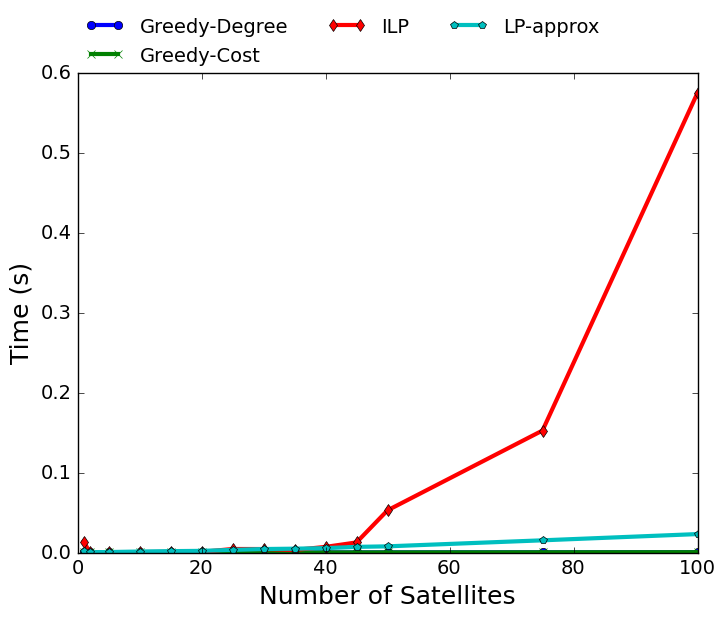
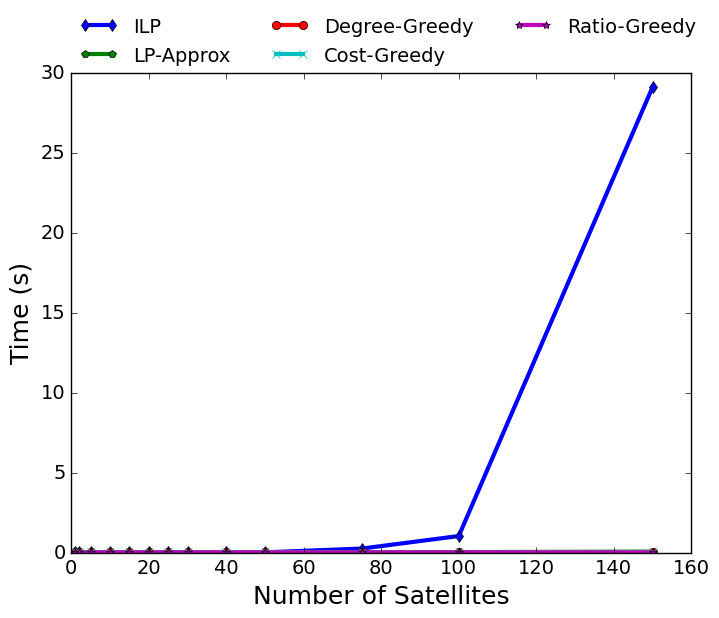
more experiments

diff --git a/optimization_experiments.py b/optimization_experiments.py
@@ -14,7 +14,7 @@ def get_covered_tuple_nodes(G, tuple_nodes):
     
     return covered_tuple_nodes
 
-num_satellites_list = [1, 2, 5, 10, 15, 20, 25, 30, 35, 40, 45, 50, 75, 100]
+num_satellites_list = [1, 2, 5, 10, 15, 20, 25, 30, 40, 50, 75, 100, 150]
 num_timesteps_list = list(num_satellites_list)
 num_locations_list = [5 for _ in range(len(num_satellites_list))]
 COVERAGE_PROB = 0.5
@@ -23,10 +23,14 @@ x_vals = []
 brute_force_times = []
 deg_times = []
 cost_times = []
+ratio_times = []
+online_ratio_times = []
 ilp_times = []
 lp_times = []
-deg_optimality_gaps = []
-cost_optimality_gaps = []
+deg_gaps = []
+cost_gaps = []
+ratio_gaps = []
+online_ratio_gaps = []
 ilp_gaps = []
 lp_gaps = []
 
@@ -60,7 +64,7 @@ for (num_timesteps, num_locations, num_satellites) in zip(num_timesteps_list, nu
         print(f"Greedy degree satellite set: {greedy_degree_satellite_set}")
         print(f"Brute force satellite set: {brute_force_satellite_set}")
     deg_times.append(end - start)
-    deg_optimality_gaps.append(greedy_degree_cost - brute_force_cost)
+    deg_gaps.append(greedy_degree_cost - brute_force_cost)
 
     start = time.time()
     greedy_cost_satellite_set, greedy_cost_cost = greedy_cost_based_algorithm(G, feasible_tuple_nodes, satellite_nodes)
@@ -73,7 +77,35 @@ for (num_timesteps, num_locations, num_satellites) in zip(num_timesteps_list, nu
         print(f"Greedy cost satellite set: {greedy_cost_satellite_set}")
         print(f"Brute force satellite set: {brute_force_satellite_set}")
     cost_times.append(end - start)
-    cost_optimality_gaps.append(greedy_cost_cost - brute_force_cost)
+    cost_gaps.append(greedy_cost_cost - brute_force_cost)
+
+    start = time.time()
+    greedy_ratio_satellite_set, greedy_ratio_cost = greedy_ratio_based_algorithm(G, feasible_tuple_nodes, satellite_nodes)
+    end = time.time()
+    if greedy_ratio_cost < brute_force_cost:
+        print("SOMETHING WENT WRONG!")
+        print(f"Brute force cost: {brute_force_cost}")
+        print(f"Greedy cost cost: {greedy_cost_cost}")
+        print(f"Satellite nodes: {satellite_nodes}")
+        print(f"Greedy cost satellite set: {greedy_cost_satellite_set}")
+        print(f"Brute force satellite set: {brute_force_satellite_set}")
+    ratio_times.append(end - start)
+    ratio_gaps.append(greedy_ratio_cost - brute_force_cost)
+
+    '''
+    start = time.time()
+    online_greedy_ratio_satellite_set, online_greedy_ratio_cost = online_greedy_ratio_based_algorithm(G, feasible_tuple_nodes, satellite_nodes)
+    end = time.time()
+    if online_greedy_ratio_cost < brute_force_cost:
+        print("SOMETHING WENT WRONG!")
+        print(f"Brute force cost: {brute_force_cost}")
+        print(f"Greedy cost cost: {greedy_cost_cost}")
+        print(f"Satellite nodes: {satellite_nodes}")
+        print(f"Greedy cost satellite set: {greedy_cost_satellite_set}")
+        print(f"Brute force satellite set: {brute_force_satellite_set}")
+    online_ratio_times.append(end - start)
+    online_ratio_gaps.append(online_greedy_ratio_cost - brute_force_cost)
+    '''
 
     k = 2 * math.ceil(np.log(num_satellites))
     start = time.time()
@@ -85,10 +117,12 @@ for (num_timesteps, num_locations, num_satellites) in zip(num_timesteps_list, nu
 plt.style.use('classic')
 plt.rcParams.update({'font.size': 14})
 # plt.plot(x_vals, brute_force_times, marker='s', lw=3, label="Brute-Force")
-plt.plot(x_vals, deg_times, marker='o', lw=3, label="Greedy-Degree")
-plt.plot(x_vals, cost_times, marker='x', lw=3, label="Greedy-Cost")
 plt.plot(x_vals, ilp_times, marker='d', lw=3, label="ILP")
-plt.plot(x_vals, lp_times, marker='p', lw=3, label="LP-approx")
+plt.plot(x_vals, lp_times, marker='p', lw=3, label="LP-Approx")
+plt.plot(x_vals, deg_times, marker='o', lw=3, label="Degree-Greedy")
+plt.plot(x_vals, cost_times, marker='x', lw=3, label="Cost-Greedy")
+plt.plot(x_vals, ratio_times, marker='*', lw=3, label="Ratio-Greedy")
+# plt.plot(x_vals, online_ratio_times, marker='^', lw=3, label="Online Ratio-Greedy")
 plt.xlabel("Number of Satellites", fontsize=18)
 plt.ylabel("Time (s)", fontsize=18)
 plt.legend(loc=(0, 1), frameon=False, ncol=3, fontsize=14)   
@@ -96,10 +130,11 @@ plt.savefig('time_comparison.png', bbox_inches='tight')
 
 plt.clf()
 plt.rcParams.update({'font.size': 14})
-plt.plot(x_vals, deg_optimality_gaps, marker='^', lw=3, label="Greedy-Degree")
-plt.plot(x_vals, cost_optimality_gaps, marker='v', lw=3, label="Greedy-Cost")
-# plt.plot(x_vals, ilp_gaps, marker='d', lw=3, label="ILP")
 plt.plot(x_vals, lp_gaps, marker='p', lw=3, label="LP-approx")
+plt.plot(x_vals, deg_gaps, marker='^', lw=3, label="Degree-Greedy")
+plt.plot(x_vals, cost_gaps, marker='v', lw=3, label="Cost-Greedy")
+plt.plot(x_vals, ratio_gaps, marker='d', lw=3, label="Ratio-Greedy")
+# plt.plot(x_vals, online_ratio_gaps, marker='o', lw=3, label="Online Ratio-Greedy")
 plt.xlabel("Number of Satellites", fontsize=18)
 plt.ylabel("Optimality Gap (Cost)", fontsize=18)
 plt.legend(loc=(0.15, 1), frameon=False, ncols=2, fontsize=14)

diff --git a/util_v2.py b/util_v2.py
@@ -87,8 +87,6 @@ def create_satellite_bipartite_graph(locations, timesteps, satellites, coverage_
         satellite_nodes[s]['cost'] = cost
         simpler_satellite_nodes[s] = cost
         G.nodes[s]['cost'] = cost
-
-
     
     return G, tuple_nodes, simpler_satellite_nodes#satellite_nodes
 
@@ -134,7 +132,10 @@ def greedy_degree_based_algorithm(G, feasible_tuple_nodes, satellites):
     # Create a mapping of each location-time tuple to all satellites that can cover it
     coverage_map = {}
     for sat in satellites:
-        coverage_map[sat] = set(G.neighbors(sat))
+        covered_nodes = set(G.neighbors(sat))
+        if len(covered_nodes) == 0:
+            continue
+        coverage_map[sat] = covered_nodes
     
     coverage_map_sorted = {k: v for k, v in sorted(coverage_map.items(), key=lambda item: len(item[1]), reverse=True)}
     
@@ -168,7 +169,10 @@ def greedy_cost_based_algorithm(G, feasible_tuple_nodes, satellites):
     # Create a mapping of each location-time tuple to all satellites that can cover it
     coverage_map = {}
     for sat in satellites:
-        coverage_map[sat] = set(G.neighbors(sat))
+        covered_nodes = set(G.neighbors(sat))
+        if len(covered_nodes) == 0:
+            continue
+        coverage_map[sat] = covered_nodes
     
     # sort coverage_map by the value of the satellite in satellites dict
     coverage_map_sorted = {k: v for k, v in sorted(coverage_map.items(), key=lambda item: satellites[item[0]])}
@@ -192,6 +196,83 @@ def greedy_cost_based_algorithm(G, feasible_tuple_nodes, satellites):
     
     return satellite_set, total_cost
 
+def greedy_ratio_based_algorithm(G, feasible_tuple_nodes, satellites):
+    # Create a mapping of each location-time tuple to all satellites that can cover it
+    coverage_map = {}
+    for sat in satellites:
+        covered_nodes = set(G.neighbors(sat))
+        if len(covered_nodes) == 0:
+            continue
+        coverage_map[sat] = covered_nodes
+    
+    # sort coverage_map by the value of the satellite in satellites dict
+    coverage_map_sorted = {k: v for k, v in sorted(coverage_map.items(), key=lambda item: satellites[item[0]] / len(item[1]))}
+    
+    # Initialize the set of all location-time tuples
+    U = set(feasible_tuple_nodes)
+    
+    # Initialize an empty set to store the selected satellites
+    satellite_set = set()
+
+    for sat, tuples in coverage_map_sorted.items():
+        if len(U) == 0:
+            break
+        covered = U.intersection(tuples)
+        if len(covered) > 0:
+            satellite_set.add(sat)
+            U -= covered
+    
+    # Calculate the total cost
+    total_cost = sum(satellites[satellite] for satellite in satellite_set)
+    
+    return satellite_set, total_cost
+
+def online_greedy_ratio_based_algorithm(G, feasible_tuple_nodes, satellites):
+    # Create a mapping of each location-time tuple to all satellites that can cover it
+    coverage_map = {}
+    for sat in satellites:
+        covered_nodes = set(G.neighbors(sat))
+        if len(covered_nodes) == 0:
+            continue
+        coverage_map[sat] = covered_nodes
+    
+    # sort coverage_map by the value of the satellite in satellites dict
+    coverage_map_sorted = {k: v for k, v in sorted(coverage_map.items(), key=lambda item: len(item[1]), reverse=True)}
+    
+    # Initialize the set of all location-time tuples
+    U = set(feasible_tuple_nodes)
+    
+    # Initialize an empty set to store the selected satellites
+    satellite_set = set()
+    all_covered = set()
+
+    iter = 0
+    for sat, tuples in coverage_map_sorted.items():
+        print(iter, len(coverage_map_sorted))
+        if len(U) == 0:
+            break
+        covered = U.intersection(tuples)
+        if len(covered) > 0:
+            satellite_set.add(sat)
+            U -= covered
+            all_covered.update(covered)
+        
+        new_coverage_map = {}
+        for sat2, coverage in coverage_map_sorted.items():
+            new_coverage = coverage.difference(all_covered)
+            assert len(new_coverage) <= len(coverage)
+            if len(new_coverage) == 0:
+                continue 
+            new_coverage_map[sat2] = new_coverage
+        
+        coverage_map_sorted = {k: v for k, v in sorted(new_coverage_map.items(), key=lambda item: len(item[1]), reverse=True)}
+        iter += 1
+    
+    # Calculate the total cost
+    total_cost = sum(satellites[satellite] for satellite in satellite_set)
+    
+    return satellite_set, total_cost
+    
 def find_all_valid_coverages(G, tuple_nodes, satellites):
     """
     Find all valid combinations of satellites that provide full coverage.
